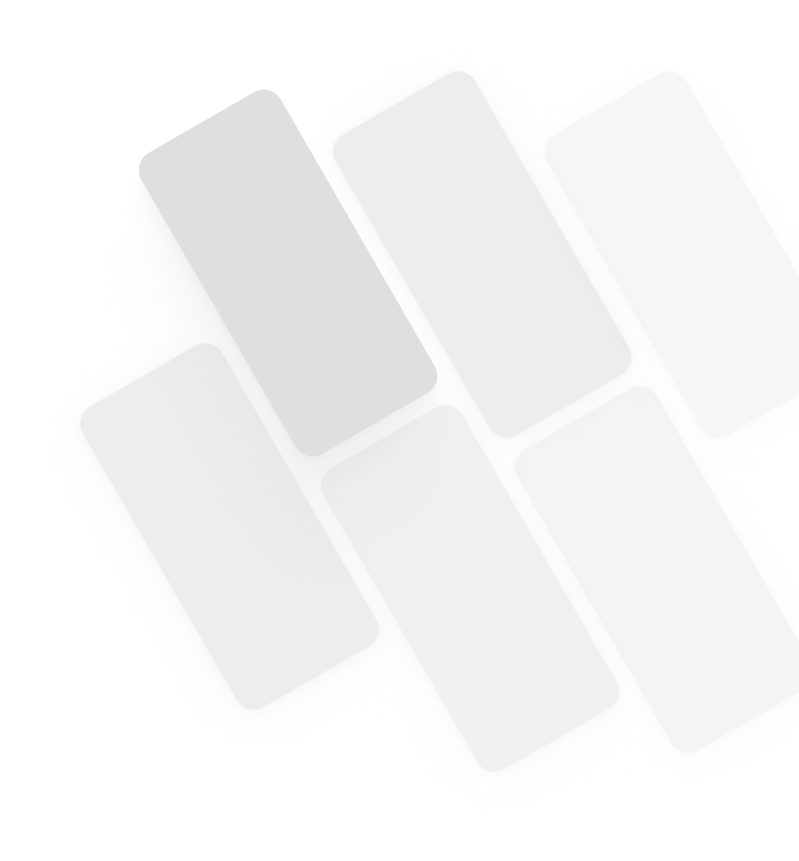
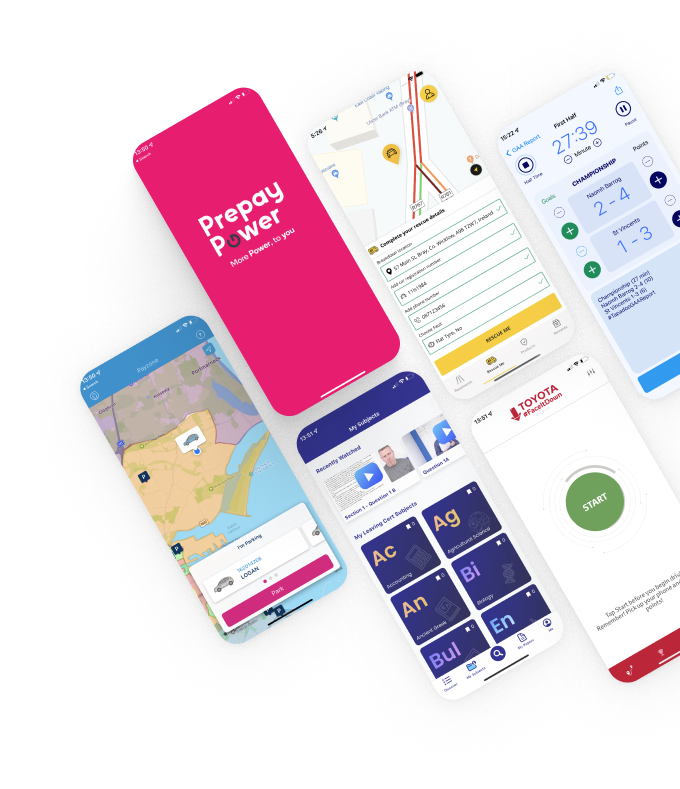
changes 25 agus

diff --git a/pages/tapadoo/work.jsx b/pages/tapadoo/work.jsx
@@ -10,7 +10,7 @@ function Work() {
     <>
       <img
         src={WorkTiles.default.src}
-        className=" max-w-[600px] w-full   absolute right-0 -top-20 lg:top-[5vh] z-10"
+        className=" max-w-[300px] md:max-w-[400px] lg:max-w-[600px] w-full   absolute right-0 -top-20 md:top-[5vh] z-[-1] opacity-80"
         alt="Tapadoo companies that we've work with"
       />
       <img
@@ -18,7 +18,7 @@ function Work() {
         alt="background shape"
         className="absolute  h-screen md:bottom-0  right-0 z-[-1] max-w-lg"
       />
-      <div className="hero min-h-[80vh] mt-[10vh] md:mt-0">
+      <div className="hero min-h-[80vh] mt-[10vh] md:mt-0 place-items-end lg:place-items-center">
         <div className="hero-content flex-col lg:flex-row-reverse justify-between w-full">
           <div></div>
           <div className="max-w-2xl">

diff --git a/components/layout/Layout.jsx b/components/layout/Layout.jsx
@@ -8,6 +8,12 @@ export function Layout({ children, title = 'Test layout' }) {
     <>
       <Head>
         <title>{title}</title>
+        <link rel="preconnect" href="https://fonts.googleapis.com" />
+        <link rel="preconnect" href="https://fonts.gstatic.com" crossOrigin />
+        <link
+          href="https://fonts.googleapis.com/css2?family=Montserrat:wght@100;300;400;500;600;700&display=swap"
+          rel="stylesheet"
+        />
       </Head>
       <Header />
       <main className="min-h-[70vh] relative">{children}</main>

diff --git a/styles/globals.css b/styles/globals.css
@@ -2,6 +2,12 @@
 @tailwind components;
 @tailwind utilities;
 
+@layer base {
+  html {
+    font-family: Montserrat, system-ui, sans-serif;
+  }
+}
+
 @layer components {
   .app-container {
     @apply p-4 max-w-7xl mx-auto;
